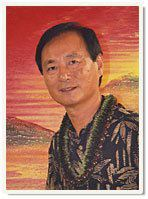
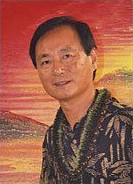
Add and center picture and text in bio

diff --git a/index.html b/index.html
@@ -81,90 +81,96 @@
   </div>
 
   <!--Bio-->
-  <h3>Bio</h3>
-  <div>
-
-  </div>
+  <section id="bio">
+    <h3 class="my-3">Bio</h3>
+    <div class="container">
+      <div class="row">
+        <div class="col d-flex justify-content-center">
+          <img class="rounded-circle" src="images/alanAoki.jpg" alt="A picture of artist Alan Aoki.">
+        </div>
+        <div class="col-9 m-auto">
+          <p>Alan Aoki was born in 1940. His education in art began in 1954 at the
+          Okyu Ito Art School in Tokyo, Japan. He went on to study art in the Roka
+          Hasegawa Art School in Tokyo, Japan. Since then, Alan has exhibited his
+          artwork in cities all over the world, including San Francisco, New York,
+          Chicago, Honolulu and Tokyo.</p>
+        </div>
+      </div>
+    </div>
+  </section>
 
   <!-- Gallery -->
-  <h3 id="gallery">Gallery</h3>
-  <div class="row">
-    <div class="col-lg-4 col-md-12 mb-4 mb-lg-0">
-      <img
-        src="images/backToTheDeep.png"
-        class="w-100 shadow-1-strong rounded mb-4 gallery"
-        alt="Painting of a Humpback whale diving in an ocean made of Plumeria flowers."
-        id="Back To The Deep"
-      />
-
-      <img
-        src="images/dolphins.png"
-        class="w-100 shadow-1-strong rounded mb-4 gallery"
-        alt="Painting of dolphins in a wave."
-        id="Dolphins"
-      />
-
-      <img
-        src="images/plumeriaWave2.png"
-        class="w-100 shadow-1-strong rounded mb-4 gallery"
-        alt="Painting of a wave of made of Plumeria flowers."
-        id="Plumeria Wave 2"
-      />
+  <section id="gallery">
+    <h3 class="my-3">Gallery</h3>
+    <div class="row">
+      <div class="col-lg-4 col-md-12 mb-4 mb-lg-0">
+        <img
+          src="images/backToTheDeep.png"
+          class="w-100 shadow-1-strong rounded mb-4 gallery"
+          alt="Painting of a Humpback whale diving in an ocean made of Plumeria flowers."
+          id="Back To The Deep"
+        />
+        <img
+          src="images/dolphins.png"
+          class="w-100 shadow-1-strong rounded mb-4 gallery"
+          alt="Painting of dolphins in a wave."
+          id="Dolphins"
+        />
+        <img
+          src="images/plumeriaWave2.png"
+          class="w-100 shadow-1-strong rounded mb-4 gallery"
+          alt="Painting of a wave of made of Plumeria flowers."
+          id="Plumeria Wave 2"
+        />
+      </div>
+      <div class="col-lg-4 mb-4 mb-lg-0">
+        <img
+          src="images/dolphins2.png"
+          class="w-100 shadow-1-strong rounded mb-4 gallery"
+          alt="Painting of dolphins swimming in the ocean at sunset."
+          id="Dolphins 2"
+        />
+        <img
+          src="images/lava.png"
+          class="w-100 shadow-1-strong rounded mb-4 gallery"
+          alt="Painting of flowing lava."
+          id="Lava"
+        />
+        <img
+          src="images/sunsetKayak.png"
+          class="w-100 shadow-1-strong rounded mb-4 gallery"
+          alt="Painting of kayaker at sunset."
+          id="Sunset Kayak"
+        />
+      </div>
+      <div class="col-lg-4 mb-4 mb-lg-0">
+        <img
+          src="images/palmsAndWaves.png"
+          class="w-100 shadow-1-strong rounded mb-4 gallery"
+          alt="Painting of a couple palm trees with waves cresting in the background at sunset."
+          id="Palms & Waves"
+        />
+        <img
+          src="images/plumeriaWave.png"
+          class="w-100 shadow-1-strong rounded mb-4 gallery"
+          alt="Painting of a wave of made of Plumeria flowers."
+          id="Plumeria Wave"
+        />
+        <img
+          src="images/volcano.png"
+          class="w-100 shadow-1-strong rounded mb-4 gallery"
+          alt="Painting an erupting volcano."
+          id="Volcano"
+        />
+      </div>
     </div>
-
-    <div class="col-lg-4 mb-4 mb-lg-0">
-      <img
-        src="images/dolphins2.png"
-        class="w-100 shadow-1-strong rounded mb-4 gallery"
-        alt="Painting of dolphins swimming in the ocean at sunset."
-        id="Dolphins 2"
-      />
-
-      <img
-        src="images/lava.png"
-        class="w-100 shadow-1-strong rounded mb-4 gallery"
-        alt="Painting of flowing lava."
-        id="Lava"
-      />
-
-      <img
-        src="images/sunsetKayak.png"
-        class="w-100 shadow-1-strong rounded mb-4 gallery"
-        alt="Painting of kayaker at sunset."
-        id="Sunset Kayak"
-      />
+    <!--Modal-->
+    <div id="myModal" class="modal">
+      <span class="close">&times;</span>
+      <img class="modal-content" id="img01">
+      <div id="caption"></div>
     </div>
-
-    <div class="col-lg-4 mb-4 mb-lg-0">
-      <img
-        src="images/palmsAndWaves.png"
-        class="w-100 shadow-1-strong rounded mb-4 gallery"
-        alt="Painting of a couple palm trees with waves cresting in the background at sunset."
-        id="Palms & Waves"
-      />
-
-      <img
-        src="images/plumeriaWave.png"
-        class="w-100 shadow-1-strong rounded mb-4 gallery"
-        alt="Painting of a wave of made of Plumeria flowers."
-        id="Plumeria Wave"
-      />
-
-      <img
-        src="images/volcano.png"
-        class="w-100 shadow-1-strong rounded mb-4 gallery"
-        alt="Painting an erupting volcano."
-        id="Volcano"
-      />
-    </div>
-  </div>
-
-  <!--Modal-->
-  <div id="myModal" class="modal">
-    <span class="close">&times;</span>
-    <img class="modal-content" id="img01">
-    <div id="caption"></div>
-  </div>
+  </section>
 
   <script src="script.js"></script>
   <script src="https://cdn.jsdelivr.net/npm/bootstrap@5.2.0-beta1/dist/js/bootstrap.bundle.min.js"></script>

diff --git a/style.css b/style.css
@@ -1,6 +1,19 @@
 body {
   font-family: 'Cinzel', serif;
   background-color: #E8F9FD;
+  color: #2155CD;
+}
+
+p {
+  font-size: large;
+}
+
+section:before { 
+  display: block; 
+  content: " "; 
+  margin-top: -60px; 
+  height: 60px; 
+  visibility: hidden; 
 }
 
 .navbar {
